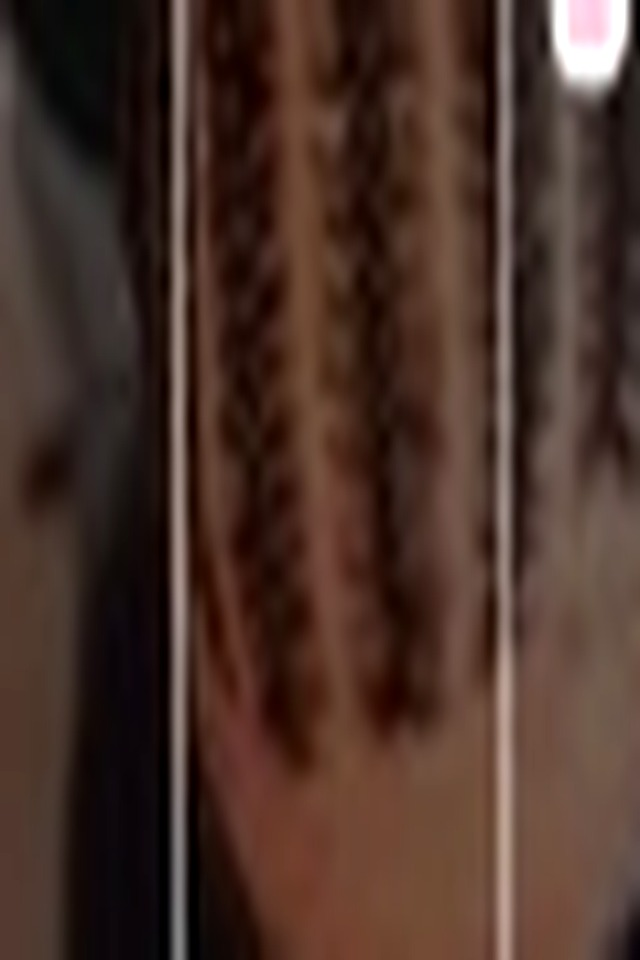
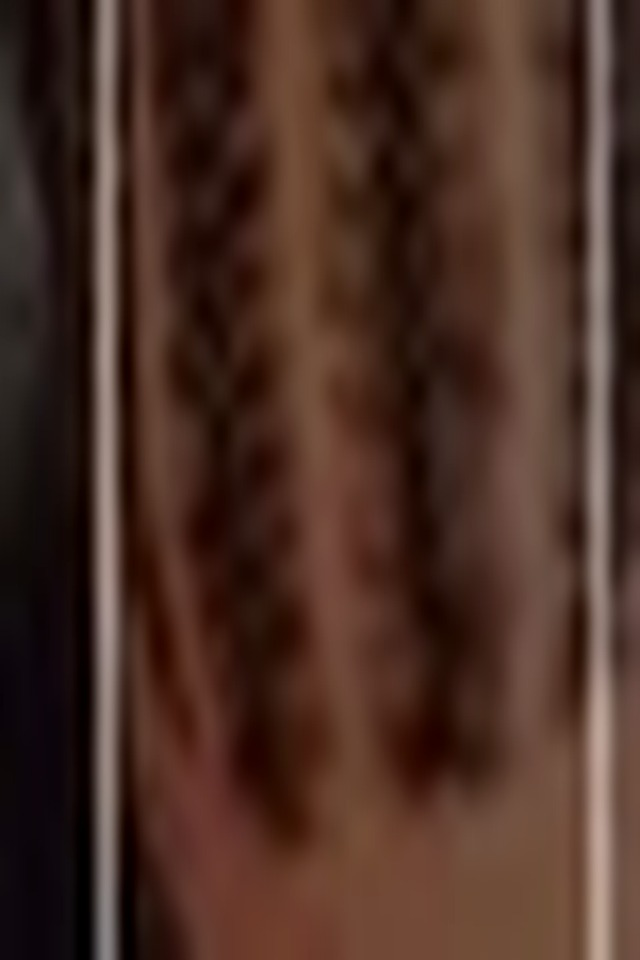
h

diff --git a/index.html b/index.html
@@ -7,13 +7,13 @@
   <link rel="preconnect" href="https://fonts.googleapis.com" />
   <link rel="preconnect" href="https://fonts.gstatic.com" crossorigin />
   <link href="https://fonts.googleapis.com/css2?family=Great+Vibes&family=Montserrat:wght@400;500;600;700&family=Cormorant+Garamond:ital,wght@0,400;0,500;1,400&display=swap" rel="stylesheet" />
-  <link rel="stylesheet" href="styles.css?v=18" />
+  <link rel="stylesheet" href="styles.css?v=20" />
 </head>
 <body>
   <section class="hero">
     <div class="hero-photos" aria-hidden="true">
-      <img src="images/hero-locs-left.jpg?v=12" alt="" />
-      <img src="images/hero-locs-right.jpg?v=12" alt="" />
+      <img src="images/hero-locs-left.jpg?v=13" alt="" />
+      <img src="images/hero-locs-right.jpg?v=13" alt="" />
     </div>
     <div class="hero-veil"></div>
     <div class="hero-content">
@@ -40,7 +40,7 @@
         <div class="portrait-sparkles" aria-hidden="true"></div>
         <div class="portrait-glow"></div>
         <div class="portrait-clip">
-          <img class="portrait" src="images/stylist-portrait.jpg?v=12" alt="Tonika Lord" />
+          <img class="portrait" src="images/stylist-portrait.jpg?v=13" alt="Tonika Lord" />
         </div>
       </div>
     </div>
@@ -48,9 +48,9 @@
 
   <section class="hours-contact">
     <div class="hours-bg" aria-hidden="true">
-      <img src="images/work-cornrows.jpg?v=12" alt="" />
-      <img src="images/work-locs.jpg?v=12" alt="" />
-      <img src="images/work-box-braids.jpg?v=12" alt="" />
+      <img src="images/polaroid-1.jpg?v=13" alt="" />
+      <img src="images/polaroid-3.jpg?v=13" alt="" />
+      <img src="images/polaroid-4.jpg?v=13" alt="" />
     </div>
     <div class="hours-veil"></div>
     <div class="hours-grid">
@@ -158,9 +158,9 @@
 
   <section class="before">
     <div class="hours-bg" aria-hidden="true">
-      <img src="images/before-1.jpg?v=12" alt="" />
-      <img src="images/before-2.jpg?v=12" alt="" />
-      <img src="images/before-3.jpg?v=12" alt="" />
+      <img src="images/polaroid-1.jpg?v=13" alt="" />
+      <img src="images/polaroid-3.jpg?v=13" alt="" />
+      <img src="images/polaroid-4.jpg?v=13" alt="" />
     </div>
     <div class="hours-veil"></div>
     <h2 class="neon policies-title">Before your Appt</h2>
@@ -193,23 +193,23 @@
       </ul>
     </div>
     <div class="polaroid-stack" aria-hidden="true">
-      <div class="polaroid tilt-left"><img src="images/polaroid-1.jpg?v=12" alt="" /></div>
-      <div class="polaroid tilt-right"><img src="images/polaroid-2.jpg?v=12" alt="" /></div>
+      <div class="polaroid tilt-left"><img src="images/polaroid-1.jpg?v=13" alt="" /></div>
+      <div class="polaroid tilt-right"><img src="images/polaroid-2.jpg?v=13" alt="" /></div>
     </div>
   </section>
 
   <section class="selfies">
     <div class="selfies-bg" aria-hidden="true">
-      <img src="images/work-locs.jpg?v=12" alt="" />
+      <img src="images/polaroid-3.jpg?v=13" alt="" />
     </div>
     <div class="hours-veil"></div>
     <div class="selfies-inner">
       <div class="phones" aria-hidden="true">
         <div class="phone tilt-left">
-          <img src="images/selfie-1.jpg?v=12" alt="" />
+          <img src="images/selfie-1.jpg?v=13" alt="" />
         </div>
         <div class="phone tilt-right">
-          <img src="images/selfie-2.jpg?v=12" alt="" />
+          <img src="images/selfie-2.jpg?v=13" alt="" />
         </div>
       </div>
       <div class="selfies-copy">
@@ -225,8 +225,8 @@
 
   <section class="thanks">
     <div class="polaroid-stack" aria-hidden="true">
-      <div class="polaroid tilt-left"><img src="images/polaroid-3.jpg?v=12" alt="" /></div>
-      <div class="polaroid tilt-right"><img src="images/polaroid-4.jpg?v=12" alt="" /></div>
+      <div class="polaroid tilt-left"><img src="images/polaroid-3.jpg?v=13" alt="" /></div>
+      <div class="polaroid tilt-right"><img src="images/polaroid-4.jpg?v=13" alt="" /></div>
     </div>
     <div class="thanks-copy">
       <h2 class="neon">Thank You</h2>

diff --git a/styles.css b/styles.css
@@ -84,11 +84,11 @@ ul {
 }
 
 .hero-photos img:first-child {
-  object-position: 18% 58%;
+  object-position: 8% 70%;
 }
 
 .hero-photos img:last-child {
-  object-position: 82% 42%;
+  object-position: 92% 40%;
 }
 
 .hero-veil {
@@ -240,8 +240,8 @@ a {
   width: 100%;
   height: 100%;
   object-fit: cover;
-  object-position: 48% 32%;
-  transform: scale(1.58);
+  object-position: 46% 26%;
+  transform: scale(1.38);
   filter: none;
   border: 0;
   box-shadow: none;
@@ -305,7 +305,8 @@ a {
   max-width: none;
   height: 100%;
   object-fit: cover;
-  filter: brightness(0.7) contrast(1.14) saturate(1.02);
+  transform: scale(1.22);
+  filter: brightness(0.72) contrast(1.16) saturate(1.04);
 }
 
 .hours-bg img + img {
@@ -828,6 +829,7 @@ select {
   position: absolute;
   inset: 0;
   z-index: -2;
+  overflow: hidden;
 }
 
 .selfies-bg img {
@@ -835,7 +837,8 @@ select {
   height: 100%;
   max-width: none;
   object-fit: cover;
-  filter: brightness(0.32) contrast(1.08) saturate(0.85);
+  transform: scale(1.18);
+  filter: brightness(0.3) contrast(1.1) saturate(0.85);
 }
 
 .selfies-inner {

diff --git a/book.html b/book.html
@@ -7,7 +7,7 @@
   <link rel="preconnect" href="https://fonts.googleapis.com" />
   <link rel="preconnect" href="https://fonts.gstatic.com" crossorigin />
   <link href="https://fonts.googleapis.com/css2?family=Great+Vibes&family=Montserrat:wght@400;500;600;700&family=Cormorant+Garamond:ital,wght@0,400;0,500;1,400&display=swap" rel="stylesheet" />
-  <link rel="stylesheet" href="styles.css?v=18" />
+  <link rel="stylesheet" href="styles.css?v=20" />
 </head>
 <body class="book-page">
   <header class="book-top">

diff --git a/_crop_clean.py b/_crop_clean.py
@@ -36,22 +36,17 @@ w, h = p1.size
 w2, h2 = p2.size
 print("p1", w, h, "p2", w2, h2)
 
-# Hero: outer photo columns, below welcome / beside the pink banner (no title).
-save(p1.crop((0, 10, int(w * 0.33), 128)), "hero-locs-left.jpg", (720, 1080))
-save(p1.crop((int(w * 0.67), 10, w, 128)), "hero-locs-right.jpg", (720, 1080))
+# Hero: BATHING / looking-down band only (y 94–128). Title lives above this.
+save(p1.crop((0, 94, int(w * 0.26), 126)), "hero-locs-left.jpg", (720, 1080))
+save(p1.crop((int(w * 0.76), 94, w, 126)), "hero-locs-right.jpg", (720, 1080))
 
-# Portrait: face inside the Canva ring.
-save(p1.crop((int(w * 0.758), 168, int(w * 0.872), 218)), "stylist-portrait.jpg", (720, 720))
+# Portrait: full face inside the Canva ring.
+save(p1.crop((int(w * 0.738), 158, int(w * 0.882), 220)), "stylist-portrait.jpg", (720, 720))
 
-# Hours hair only — skip card text/icons.
-save(p1.crop((int(w * 0.015), 278, int(w * 0.22), 318)), "work-cornrows.jpg", (640, 960))
-save(p1.crop((int(w * 0.38), 312, int(w * 0.62), 348)), "work-locs.jpg", (640, 960))
-save(p1.crop((int(w * 0.52), 280, int(w * 0.695), 328)), "work-box-braids.jpg", (640, 960))
-
-# Before: loc photos at the sides of the title band (cards live lower).
-save(p1.crop((0, 502, int(w * 0.28), 548)), "before-1.jpg", (640, 960))
-save(p1.crop((int(w * 0.36), 500, int(w * 0.64), 536)), "before-2.jpg", (640, 960))
-save(p1.crop((int(w * 0.72), 502, w, 548)), "before-3.jpg", (640, 960))
+# Hours hair only — far from card text/icons.
+save(p1.crop((int(w * 0.01), 276, int(w * 0.15), 308)), "work-cornrows.jpg", (640, 960))
+save(p1.crop((int(w * 0.42), 318, int(w * 0.58), 344)), "work-locs.jpg", (640, 960))
+save(p1.crop((int(w * 0.50), 282, int(w * 0.62), 318)), "work-box-braids.jpg", (640, 960))
 
 # Polaroids: inner photo only.
 save(
@@ -60,7 +55,7 @@ save(
     (640, 800),
 )
 save(
-    inset(p2.crop((int(w2 * 0.67), int(h2 * 0.185), int(w2 * 0.93), int(h2 * 0.345))), 0.22),
+    inset(p2.crop((int(w2 * 0.73), int(h2 * 0.19), int(w2 * 0.94), int(h2 * 0.335))), 0.16),
     "polaroid-2.jpg",
     (640, 800),
 )
@@ -77,12 +72,12 @@ save(
 
 # Phone screens only.
 save(
-    inset(p2.crop((int(w2 * 0.035), int(h2 * 0.325), int(w2 * 0.235), int(h2 * 0.52))), 0.1),
+    inset(p2.crop((int(w2 * 0.05), int(h2 * 0.36), int(w2 * 0.22), int(h2 * 0.515))), 0.12),
     "selfie-1.jpg",
     (560, 980),
 )
 save(
-    inset(p2.crop((int(w2 * 0.205), int(h2 * 0.355), int(w2 * 0.405), int(h2 * 0.55))), 0.1),
+    inset(p2.crop((int(w2 * 0.23), int(h2 * 0.375), int(w2 * 0.40), int(h2 * 0.54))), 0.14),
     "selfie-2.jpg",
     (560, 980),
 )
